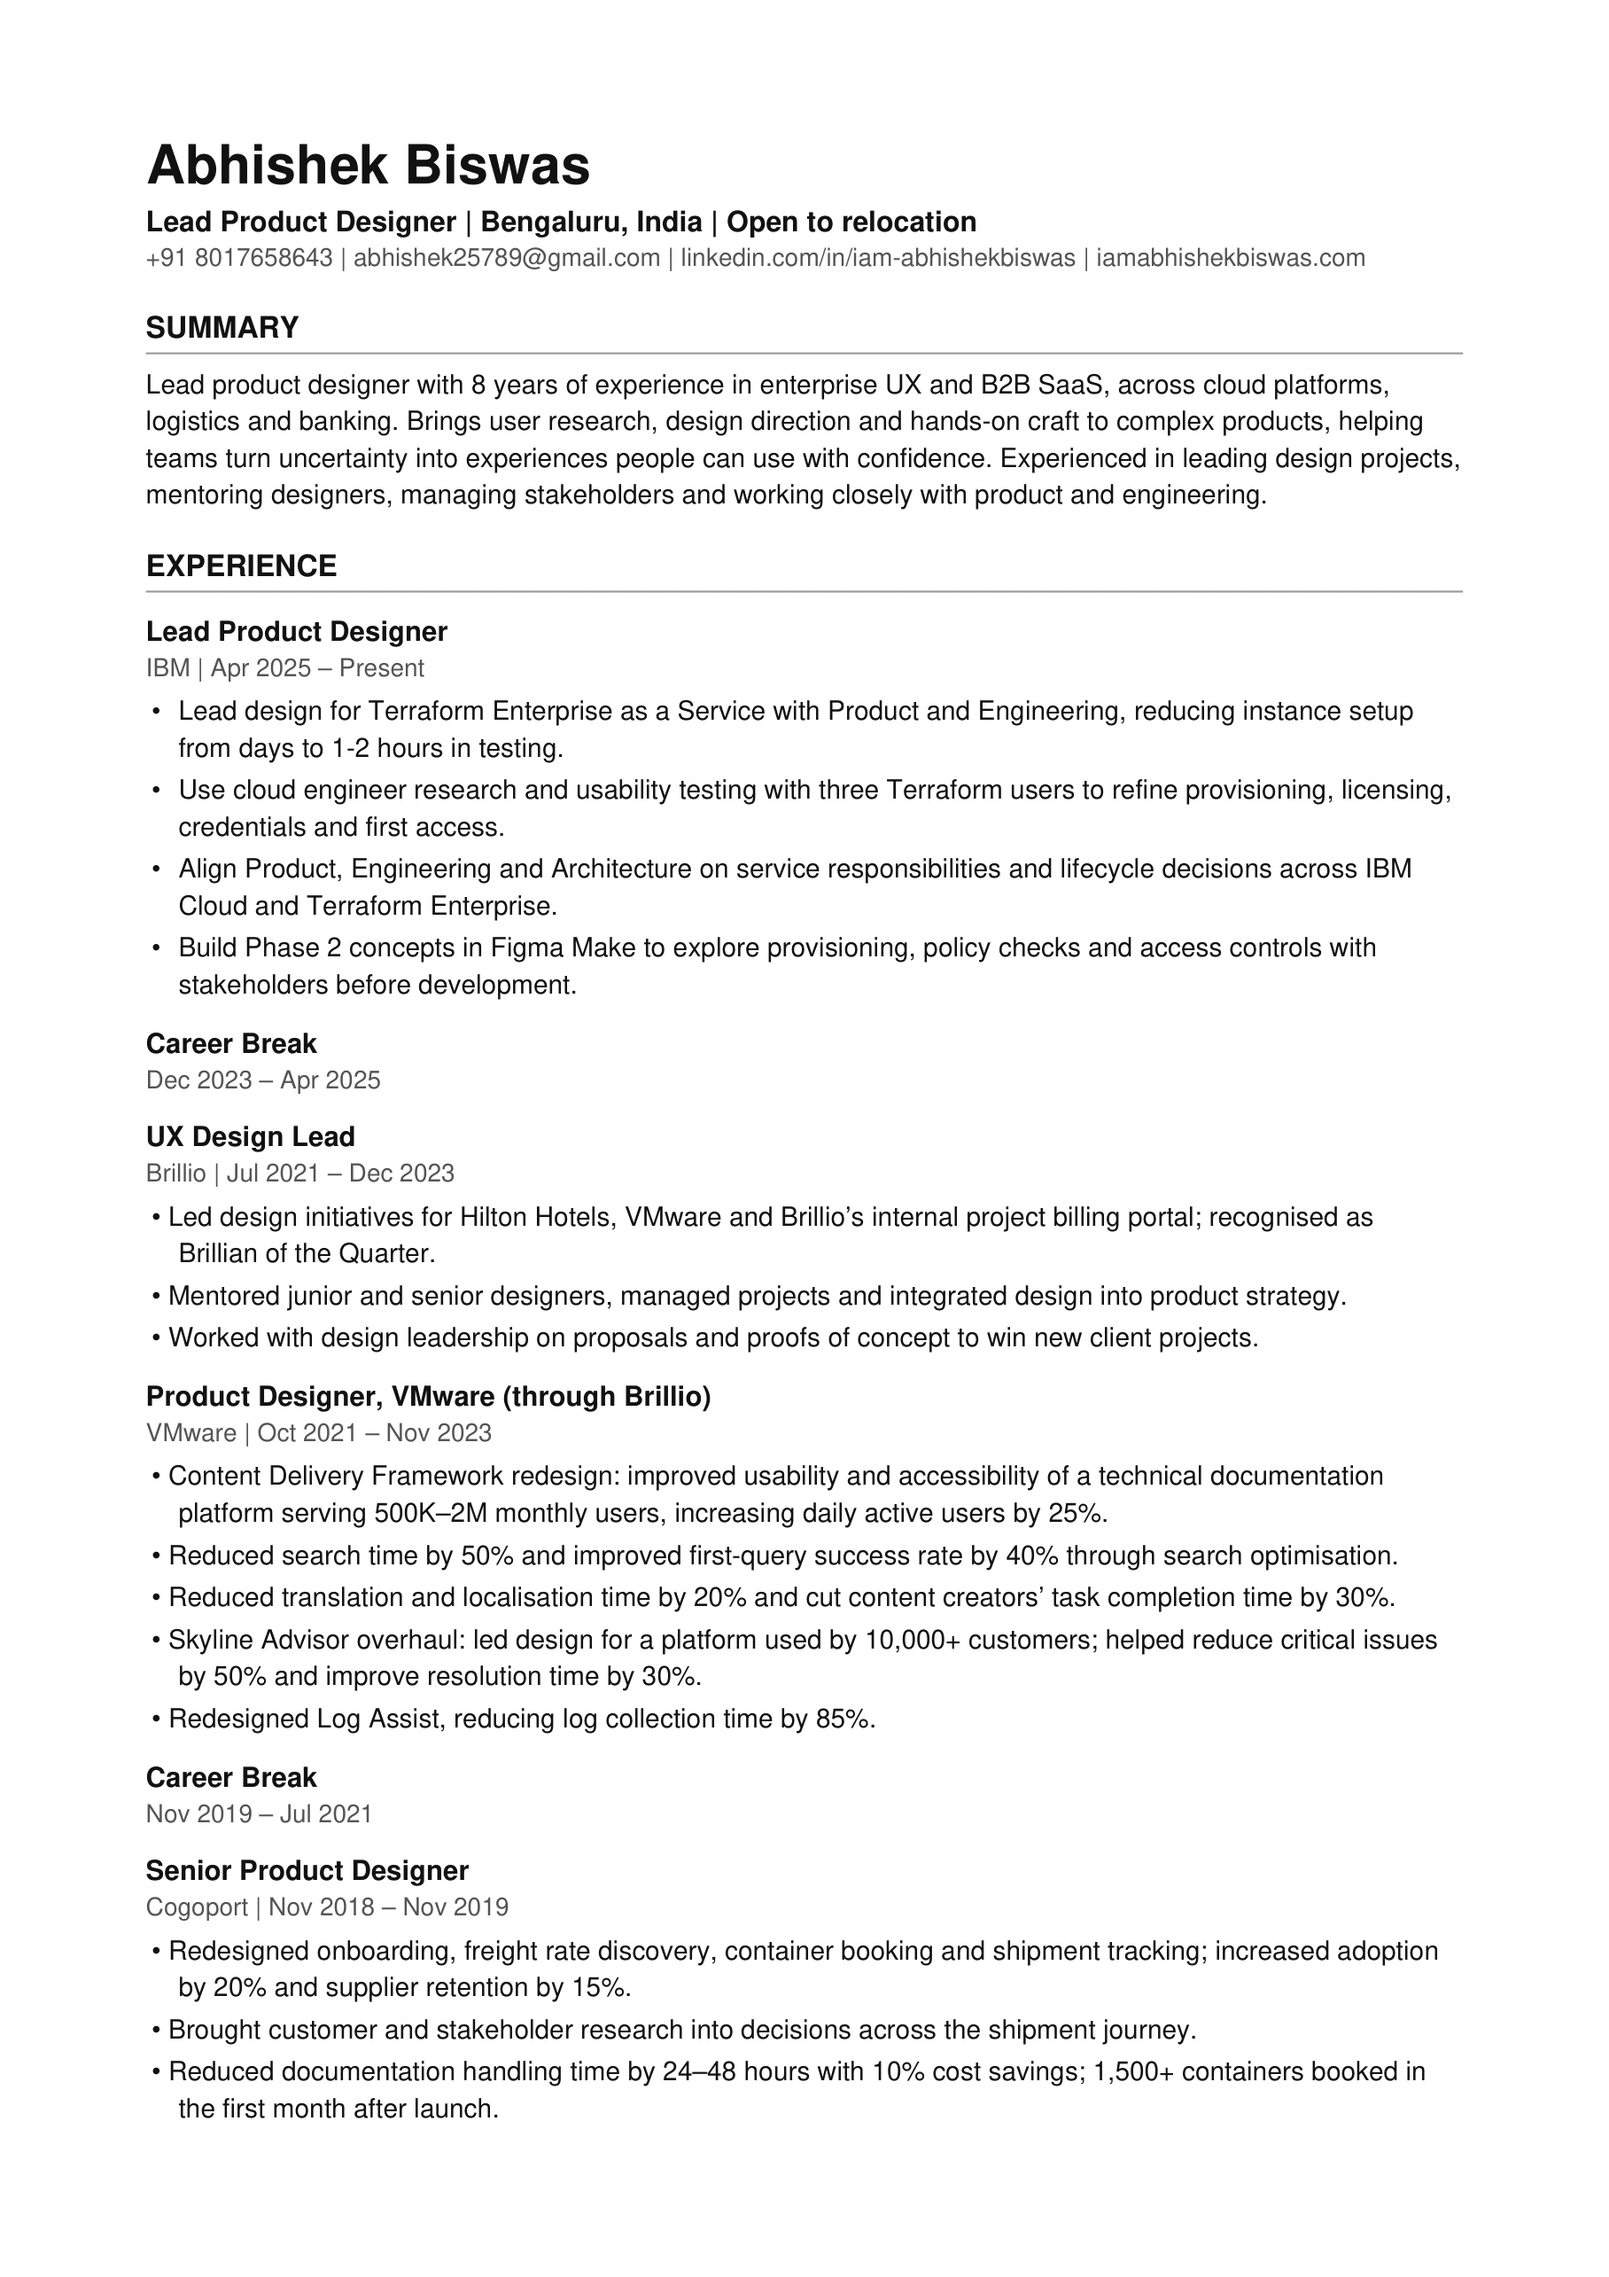
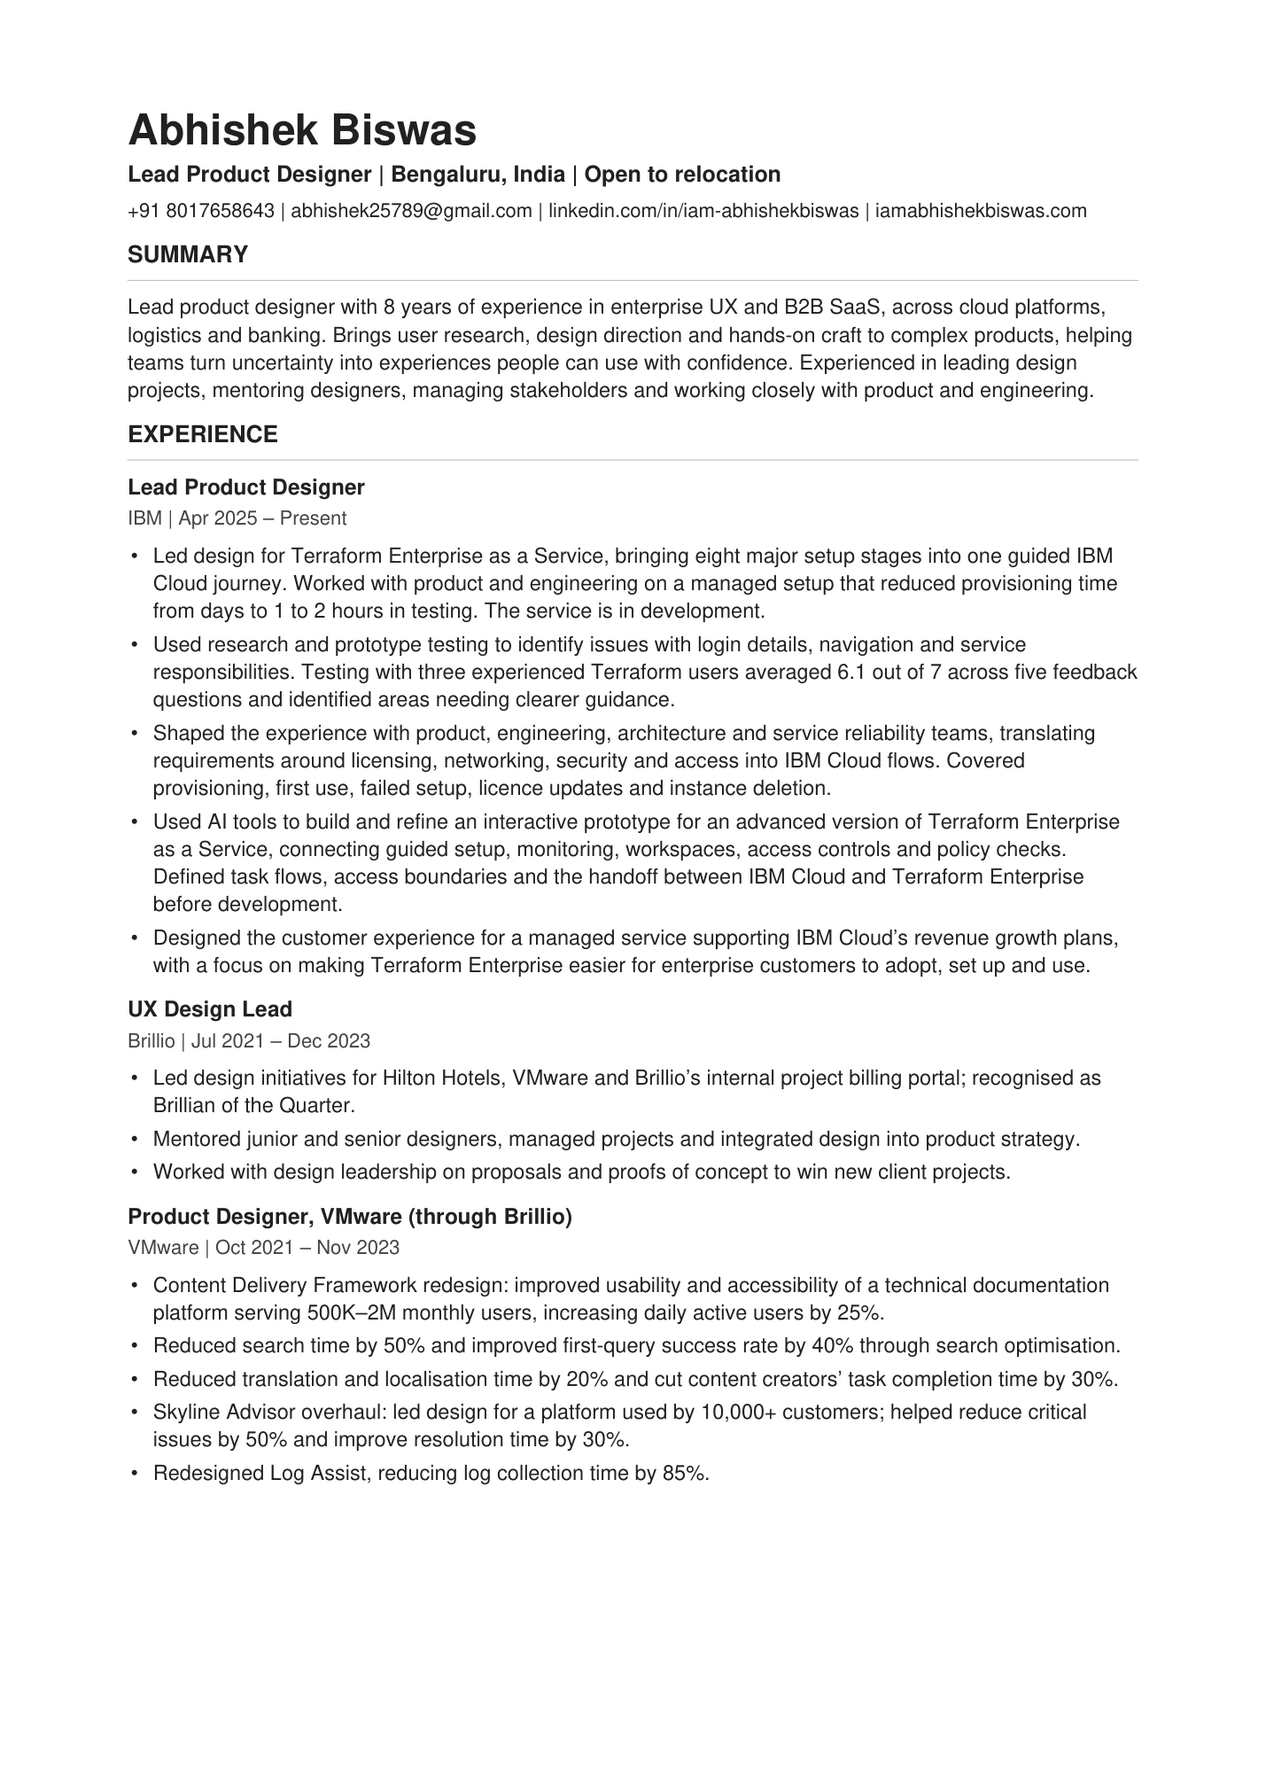
resume update 2

Changed region(s): [[0.0924, 0.0623, 0.8929, 0.9352]]

diff --git a/resume/index.html b/resume/index.html
@@ -54,7 +54,7 @@
   <header class="resume-toolbar">
     <div class="toolbar-inner">
       <span class="toolbar-title">Résumé</span>
-      <a class="download-link" href="./Abhishek_Biswas_Resume_ATS.pdf?v=160" target="_blank" rel="noopener noreferrer" aria-label="Open Abhishek Biswas résumé PDF in a new tab to download" title="Open the PDF, then use the viewer’s download button">
+      <a class="download-link" href="./Abhishek_Biswas_Resume_ATS.pdf?v=170" target="_blank" rel="noopener noreferrer" aria-label="Open Abhishek Biswas résumé PDF in a new tab to download" title="Open the PDF, then use the viewer’s download button">
         <svg width="17" height="17" viewBox="0 0 24 24" fill="none" stroke="currentColor" stroke-width="1.8" stroke-linecap="round" stroke-linejoin="round" aria-hidden="true"><path d="M7 17 17 7M8 7h9v9"/></svg>
         Open PDF
       </a>
@@ -63,9 +63,9 @@
   <div class="resume-back-row"><a class="back-link" href="/"><span class="back-icon"><svg width="20" height="20" viewBox="0 0 24 24" fill="none" stroke="currentColor" stroke-width="1.6" stroke-linecap="round" stroke-linejoin="round" aria-hidden="true"><path d="M19 12H5m6-6-6 6 6 6"/></svg></span><span>Home</span></a></div>
   <main class="resume-pages" id="resume">
     <h1 class="sr-only">Abhishek Biswas résumé</h1>
-    <a class="sr-only" href="./Abhishek_Biswas_Resume_ATS.pdf?v=160" target="_blank" rel="noopener noreferrer">Open the selectable PDF version of this résumé</a>
-    <figure class="resume-page"><img src="./resume-page-1.webp?v=160" width="1816" height="2568" alt="Résumé page 1 of 2: summary and experience from IBM through Cogoport." fetchpriority="high"></figure>
-    <figure class="resume-page"><img src="./resume-page-2.webp?v=160" width="1816" height="2568" alt="Résumé page 2 of 2: earlier experience, skills, education and awards." loading="lazy"></figure>
+    <a class="sr-only" href="./Abhishek_Biswas_Resume_ATS.pdf?v=170" target="_blank" rel="noopener noreferrer">Open the selectable PDF version of this résumé</a>
+    <figure class="resume-page"><img src="./resume-page-1.webp?v=170" width="1429" height="2021" alt="Résumé page 1 of 2: summary and experience from IBM through VMware." fetchpriority="high"></figure>
+    <figure class="resume-page"><img src="./resume-page-2.webp?v=170" width="1429" height="2021" alt="Résumé page 2 of 2: Cogoport and earlier experience, skills, education and awards." loading="lazy"></figure>
   </main>
   <button class="scroll-top" type="button" aria-label="Scroll to top" title="Back to top"><svg width="19" height="19" viewBox="0 0 24 24" fill="none" stroke="currentColor" stroke-width="1.8" stroke-linecap="round" stroke-linejoin="round" aria-hidden="true"><path d="M12 19V5m-6 6 6-6 6 6"/></svg></button>
   <script>
